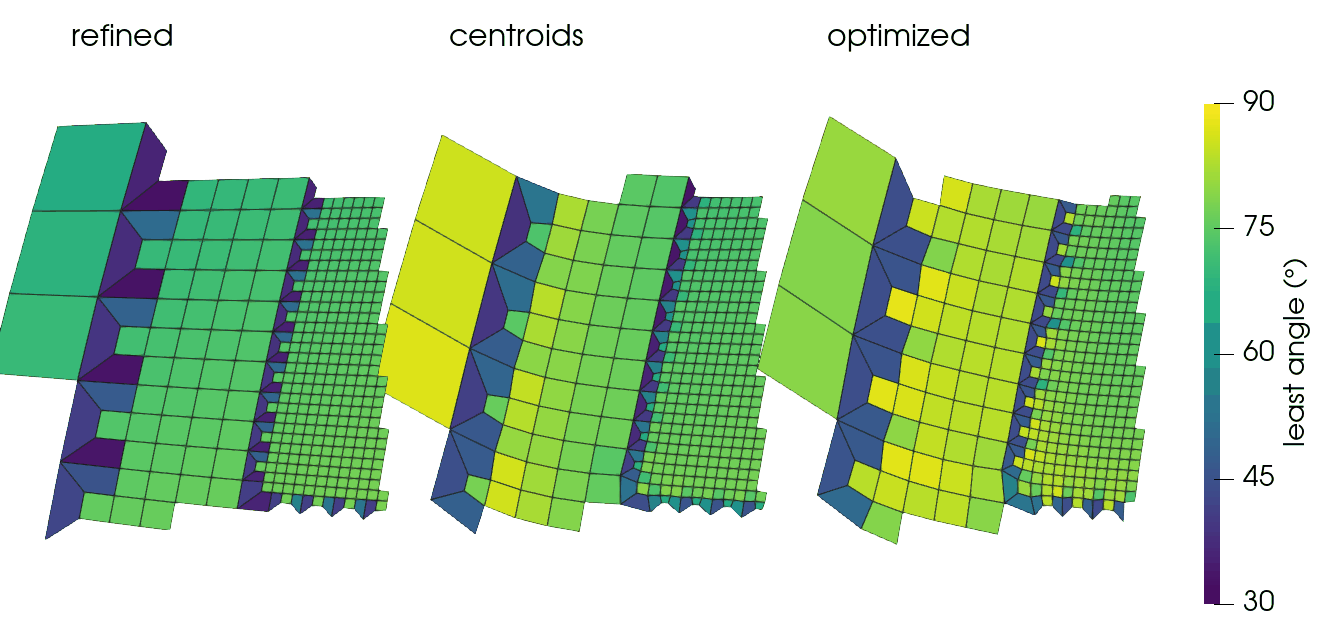
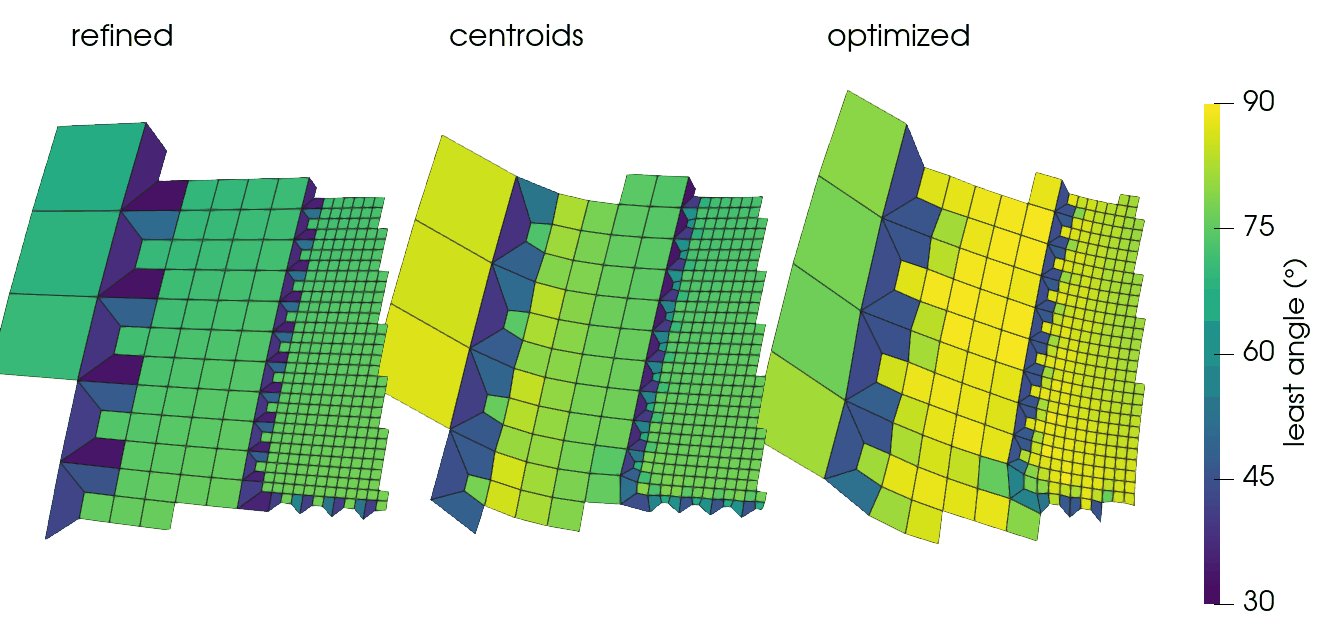
Take over-relaxed Newton shape steps; 50 shape sweeps and a 45-degree angle threshold by default
Improvement spreads a cell a sweep: 10 sweeps left the mean least angle near centroid smoothing's.

Changed region(s): [[0.5532, 0.1496, 0.8606, 0.8677]]

diff --git a/tests/unit/test_quality_smooth.cpp b/tests/unit/test_quality_smooth.cpp
@@ -165,7 +165,7 @@ TEST(QualitySmooth, ShapeImprovesAPerturbedGrid) {
   EXPECT_LT(k1, k0);
   EXPECT_TRUE(std::isfinite(k1));
   EXPECT_GE(a1, a0);
-  EXPECT_EQ(r.shape_sweeps, 10);
+  EXPECT_EQ(r.shape_sweeps, 50);
   EXPECT_NEAR(r.least_angle_before, a0, 1e-9);
   EXPECT_NEAR(r.least_angle_after, a1, 1e-9);
 }
@@ -269,6 +269,55 @@ TEST(QualitySmooth, ShapeImprovesPerturbedTriangles) {
   EXPECT_LT(k1, k0);
   EXPECT_GE(r.least_angle_after, r.least_angle_before);
 }
+
+namespace {
+
+// The cubed sphere ne 8 refined twice about a face's middle (cells within 0.5
+// radians, then their children within 0.3), with a ghost layer through
+// vertices on more than one rank: two levels and two bands of transitions.
+soma::HostMesh two_level_sphere(const soma::Comm& c) {
+  soma::sem::CubedSphereSpec spec;
+  spec.ne = 8;
+  spec.radius = kRadius;
+  soma::HostMesh m = soma::sem::cubed_sphere_mesh(c, spec);
+  const Real d[3] = {1 / std::sqrt(1.13), 0.3 / std::sqrt(1.13), 0.2 / std::sqrt(1.13)};
+  for (const Real reach : {Real{0.5}, Real{0.3}}) {
+    const auto mv = m.view();
+    std::vector<std::int8_t> marks;
+    for (LO e = 0; e < m.segment_table(2).owned_end; ++e) {
+      Real g[3] = {0, 0, 0};
+      for (LO i = 0; i < 4; ++i) {
+        const auto p = point(m, mv.vertex(2, e, i));
+        for (int q = 0; q < 3; ++q) g[q] += p[static_cast<std::size_t>(q)];
+      }
+      const Real cosine = (g[0] * d[0] + g[1] * d[1] + g[2] * d[2]) / std::hypot(g[0], g[1], g[2]);
+      marks.push_back(std::acos(std::min(cosine, Real{1})) < reach ? 1 : 0);
+    }
+    m = soma::refine_quads(c, m, marks, {.sphere_radius = kRadius}).mesh;
+  }
+  if (c.size() > 1) m.add_ghosts(c, soma::GhostOptions{1, 0});
+  return m;
+}
+
+// The sum over the owned cells' corners of their condition number against
+// the square, each corner in its cell's plane.
+Real total_kappa(const soma::Comm& c, const soma::HostMesh& m) {
+  const auto mv = m.view();
+  Real s = 0;
+  for (LO e = 0; e < m.segment_table(2).owned_end; ++e) {
+    for (LO i = 0; i < 4; ++i) {
+      const auto q = point(m, mv.vertex(2, e, i)), a = point(m, mv.vertex(2, e, (i + 3) % 4)),
+                 b = point(m, mv.vertex(2, e, (i + 1) % 4));
+      const Real u[3] = {b[0] - q[0], b[1] - q[1], b[2] - q[2]}, w[3] = {a[0] - q[0], a[1] - q[1], a[2] - q[2]};
+      const Real n[3] = {u[1] * w[2] - u[2] * w[1], u[2] * w[0] - u[0] * w[2], u[0] * w[1] - u[1] * w[0]};
+      s += (u[0] * u[0] + u[1] * u[1] + u[2] * u[2] + w[0] * w[0] + w[1] * w[1] + w[2] * w[2]) /
+           (2 * std::hypot(n[0], n[1], n[2]));
+    }
+  }
+  return c.allreduce(s, soma::Op::sum);
+}
+
+}  // namespace
 
 TEST(QualitySmooth, StaysOnTheSphere) {
   const soma::Comm c = soma::Comm::world();
@@ -479,4 +528,35 @@ TEST(QualitySmooth, BeatsCentroids) {
 TEST(QualitySmooth, AngleSameBitsOnAnyRankCount) {
   const soma::Comm c = soma::Comm::world();
   EXPECT_EQ(differ_from_serial(c, {.shape_sweeps = 0, .sphere_radius = kRadius}), 0);
+}
+
+
+
+// Two levels of refinement relax slowly (improvement spreads a cell a sweep):
+// from 20 centroid sweeps, the defaults raise the mean least angle by a degree
+// or more (measured 81.71 to 83.01; 10 unrelaxed steepest-descent sweeps made
+// 82.27) and the least angle, with no more cells under 45 degrees and no
+// worse aspect than centroids leave.
+TEST(QualitySmooth, DefaultsBeatCentroidsOnTwoLevels) {
+  const soma::Comm c = soma::Comm::world();
+  soma::HostMesh centroids = two_level_sphere(c);
+  (void)soma::laplacian_smooth(c, centroids,
+                               {.iterations = 20, .method = soma::SmoothMethod::centroids, .sphere_radius = kRadius});
+  soma::HostMesh optimized = two_level_sphere(c);
+  (void)soma::laplacian_smooth(c, optimized,
+                               {.iterations = 20, .method = soma::SmoothMethod::centroids, .sphere_radius = kRadius});
+  (void)soma::quality_smooth(c, optimized, {.sphere_radius = kRadius});
+  const Quality qc = quality(c, centroids), qo = quality(c, optimized);
+  const Real lc = least_angle(c, centroids), lo = least_angle(c, optimized);
+  const Real kc = total_kappa(c, centroids), ko = total_kappa(c, optimized);  // collective: every rank
+  if (c.rank() == 0) {
+    std::printf("two levels: least %.2f -> %.2f, mean %.3f -> %.3f, under 45 %g -> %g, aspect %.3f -> %.3f, "
+                "kappa %.1f -> %.1f\n",
+                lc, lo, qc.mean_angle, qo.mean_angle, qc.under_45, qo.under_45, qc.worst_aspect, qo.worst_aspect, kc,
+                ko);
+  }
+  EXPECT_GE(qo.mean_angle, qc.mean_angle + 1);
+  EXPECT_GT(lo, lc + 5);
+  EXPECT_LE(qo.under_45, qc.under_45);
+  EXPECT_LE(qo.worst_aspect, qc.worst_aspect);
 }

diff --git a/src/algorithms/quality_smooth.cpp b/src/algorithms/quality_smooth.cpp
@@ -129,6 +129,10 @@ constexpr Real kFirstStep = 0.25;
 constexpr int kHalvings = 20;
 // Steps per vertex visit.
 constexpr int kInner = 3;
+// Shape steps are over-relaxed (tried at this multiple of the Newton step
+// first): a sweep moves a vertex against its neighbours' old positions, so
+// improvement spreads one cell a sweep; overshooting halves the sweeps needed.
+constexpr Real kOverRelax = 1.7;
 // Angles within this many degrees of the least are active.
 constexpr Real kActive = 1e-3;
 
@@ -236,17 +240,37 @@ class Smoother {
     Real a = 0, b = 0;
     Measure now = measure(at(0, 0));
     for (int inner = 0; inner < kInner; ++inner) {
-      const Real ga = (measure(at(a + kDelta, b)).kappa - measure(at(a - kDelta, b)).kappa) / (2 * kDelta);
-      const Real gb = (measure(at(a, b + kDelta)).kappa - measure(at(a, b - kDelta)).kappa) / (2 * kDelta);
+      // Gradient and Hessian by central differences.
+      const Real f = now.kappa, d2 = kDelta * kDelta;
+      const Real fa = measure(at(a + kDelta, b)).kappa, fA = measure(at(a - kDelta, b)).kappa;
+      const Real fb = measure(at(a, b + kDelta)).kappa, fB = measure(at(a, b - kDelta)).kappa;
+      const Real ga = (fa - fA) / (2 * kDelta), gb = (fb - fB) / (2 * kDelta);
       const Real g = std::hypot(ga, gb);
       if (!std::isfinite(g) || g == 0) break;
+      const Real haa = (fa - 2 * f + fA) / d2, hbb = (fb - 2 * f + fB) / d2;
+      const Real hab = (measure(at(a + kDelta, b + kDelta)).kappa - measure(at(a + kDelta, b - kDelta)).kappa -
+                        measure(at(a - kDelta, b + kDelta)).kappa + measure(at(a - kDelta, b - kDelta)).kappa) /
+                       (4 * d2);
+      const Real det = haa * hbb - hab * hab;
+      // Newton where the Hessian is positive definite, else steepest descent;
+      // no step longer than kFirstStep shortest edges.
+      Real da = -ga * kFirstStep / g, db = -gb * kFirstStep / g;
+      if (std::isfinite(det) && haa > 0 && det > 0) {
+        da = -(hbb * ga - hab * gb) / det;
+        db = -(haa * gb - hab * ga) / det;
+        const Real l = std::hypot(da, db);
+        if (l > kFirstStep) {
+          da *= kFirstStep / l;
+          db *= kFirstStep / l;
+        }
+      }
       bool stepped = false;
-      Real s = kFirstStep;
+      Real s = kOverRelax;
       for (int h = 0; h <= kHalvings && !stepped; ++h, s /= 2) {
-        const Measure t = measure(at(a - s * ga / g, b - s * gb / g));
+        const Measure t = measure(at(a + s * da, b + s * db));
         if (t.valid && t.kappa < now.kappa * (1 - kProgress) && t.least >= floor) {
-          a -= s * ga / g;
-          b -= s * gb / g;
+          a += s * da;
+          b += s * db;
           now = t;
           stepped = true;
         }

diff --git a/include/soma/algorithms/quality_smooth.hpp b/include/soma/algorithms/quality_smooth.hpp
@@ -31,8 +31,11 @@
 ///   reached. Raising the worst corners costs some good ones; these give
 ///   most of it back without losing the gain.
 ///
-/// A step is a line search along the direction found, from central
-/// differences in the plane; it is kept only if the objective improves, no
+/// A step is a line search along the direction found from central
+/// differences in the plane (shape: Newton's, where the 2 x 2 Hessian is
+/// positive definite, else steepest descent, tried first at 1.7 times its
+/// length: over-relaxed, as improvement spreads one cell a sweep); it is kept
+/// only if the objective improves, no
 /// corner of the patch has det A <= 0, and the patch's least angle stays at or
 /// above the mesh's least angle when the phase began, so the least angle
 /// never falls. Angles are those of the corners in space, as cells are drawn.
@@ -73,12 +76,13 @@ std::vector<std::int32_t> vertex_colours(const Comm& comm, const HostMesh& mesh,
 }  // namespace detail
 
 struct QualitySmoothOptions {
-  int shape_sweeps = 10;   ///< condition-number sweeps
+  int shape_sweeps = 50;   ///< condition-number sweeps
   int angle_sweeps = 5;    ///< least-angle sweeps
   int polish_sweeps = 10;  ///< condition-number sweeps after them
   /// Degrees in (0, 90]: the angle phase moves the vertices of cells whose
-  /// least angle is below it.
-  Real angle_threshold = 60;
+  /// least angle is below it. Higher raises the least angle further and
+  /// leaves more cells just under 45 degrees.
+  Real angle_threshold = 45;
   /// > 0: a phase ends once no vertex moved farther than this times its
   /// patch's shortest edge in a sweep.
   Real tolerance = 0;

diff --git a/docs/algorithms/smoothing.md b/docs/algorithms/smoothing.md
@@ -117,10 +117,10 @@ const soma::QualitySmoothReport r = soma::quality_smooth(comm, mesh, o);
 
 | Option | Default | Meaning |
 | --- | --- | --- |
-| `shape_sweeps` | 10 | Sweeps lowering the sum of the cells' corner condition numbers. |
+| `shape_sweeps` | 50 | Sweeps lowering the sum of the cells' corner condition numbers. |
 | `angle_sweeps` | 5 | Sweeps raising the least corner angle of the cells below `angle_threshold`. |
 | `polish_sweeps` | 10 | Shape sweeps again, kept above the least angle the angle sweeps reached. |
-| `angle_threshold` | 60 | Degrees in (0, 90]. |
+| `angle_threshold` | 45 | Degrees in (0, 90]. Higher raises the least angle further and leaves more cells just under 45°. |
 | `tolerance` | 0 | > 0: a phase ends once no vertex moves farther than this times its shortest edge. |
 | `fixed` | empty | As for `laplacian_smooth`: the skin stays when empty. |
 | `sphere_radius` | none | Move in the sphere's tangent plane and project back onto it. |
@@ -134,28 +134,33 @@ const soma::QualitySmoothReport r = soma::quality_smooth(comm, mesh, o);
   Plassmann). Angles alone bound neither a quad's aspect nor its largest angle (a step can make
   a long thin rectangle, or a corner near 180 degrees), so a step must also leave no corner of
   the patch with a condition number above the patch's worst.
-- **Never worse:** every step is a line search kept only if its objective improves, and the
-  least angle of the mesh never falls during a phase.
+- **Steps:** a shape step is Newton's (a 2 x 2 Hessian from central differences) where the
+  Hessian is positive definite, else steepest descent, tried first at 1.7 times its length:
+  improvement spreads one cell a sweep, and the over-relaxation halves the sweeps needed. Every
+  step is a line search kept only if its objective improves, and the least angle of the mesh
+  never falls during a phase.
 - **Order:** vertices are coloured so that no two of one colour share a cell (Jones and
   Plassmann, priorities hashed from gids); a sweep moves one colour at a time with a halo update
   after each, and sums each patch in cell-gid order. The result is the same bit for bit on any
   number of ranks and threads.
 
-On `refine_quads`' cubed sphere (ne 4, refined about a face's middle), against 20 sweeps of
+On the cubed sphere ne 8 refined twice about a face's middle (1718 cells), from 20 sweeps of
 `centroids`:
 
-| | `centroids` | `quality_smooth` |
+| | `centroids` | then `quality_smooth` |
 | --- | --- | --- |
-| least angle | 33.1° | 40.1° |
-| mean of each cell's least angle | 79.1° | 79.4° |
+| least angle | 31.1° | 40.3° |
+| mean of each cell's least angle | 81.7° | 83.0° |
+| cells with a least angle under 45° | 58 | 52 |
 | worst ratio of longest to shortest edge | 5.1 | 3.3 |
-| change in the refined cells' mean spacing | +2.0% | +1.6% |
 
 On ne30 refined to 12 km over the United States (the
 [example](refinement.md#example-regionally-refined-meshes-of-the-sphere)), from the centroid
-result, the least angle goes from 30.1 to 43.3 degrees and the worst edge ratio from 4.8 to 3.2,
-at about 15 s on one core for 24436 cells. Its condition number does not see sizes, so the
-largest area ratio between neighbours grows (5.6 to 7.2 there).
+result, the least angle goes from 30.1 to 43.3 degrees, the mean least angle from 81.2 to 84.1
+and the worst edge ratio from 4.8 to 3.2, at about 12 s on one core for 24436 cells. With
+`angle_threshold` 40 the angle sweeps find nothing to move there: 40.1 degrees, mean 84.1, 381
+cells under 45 degrees against 418. Its condition number does not see sizes, so the largest
+area ratio between neighbours grows (5.6 to 6.4 there).
 
 It throws `std::invalid_argument` on every rank, as `laplacian_smooth` does, for a mesh not of
 dimension 2, a cell neither a triangle nor a quad, an inverted corner, an edited mesh, a missing

diff --git a/docs/CHANGELOG.md b/docs/CHANGELOG.md
@@ -725,11 +725,12 @@ SOMA never links VTK; it writes and reads legacy VTK files itself.
   free vertex of a surface mesh of triangles and quads to lower its cells' corner condition
   numbers (Knupp), then to raise the least corner angle of the cells below a threshold (Freitag
   and Plassmann, no corner left worse than the patch's worst), then polishes shapes above the
-  angle reached; the least angle never falls. Vertices move in their tangent plane (on a
+  angle reached; the least angle never falls. Shape steps are Newton's, over-relaxed (1.7).
+  Vertices move in their tangent plane (on a
   sphere, projected back) one colour at a time, colours from gid-hashed independent sets, so the
   result is the same bit for bit on any number of ranks. On ne30 refined to 12 km over the
   United States it raises the least angle from 30.1 to 43.3 degrees (centroid smoothing: 30.5 to
-  30.1) and the worst edge ratio from 4.8 to 3.2.
+  30.1), the mean least angle from 81.2 to 84.1 and lowers the worst edge ratio from 4.8 to 3.2.
 - `soma::mark_fraction(comm, indicator, fraction)` marks the cells of largest indicator that
   hold the fraction of its total (Doerfler marking), and `soma::mark_threshold` those above a
   value.
